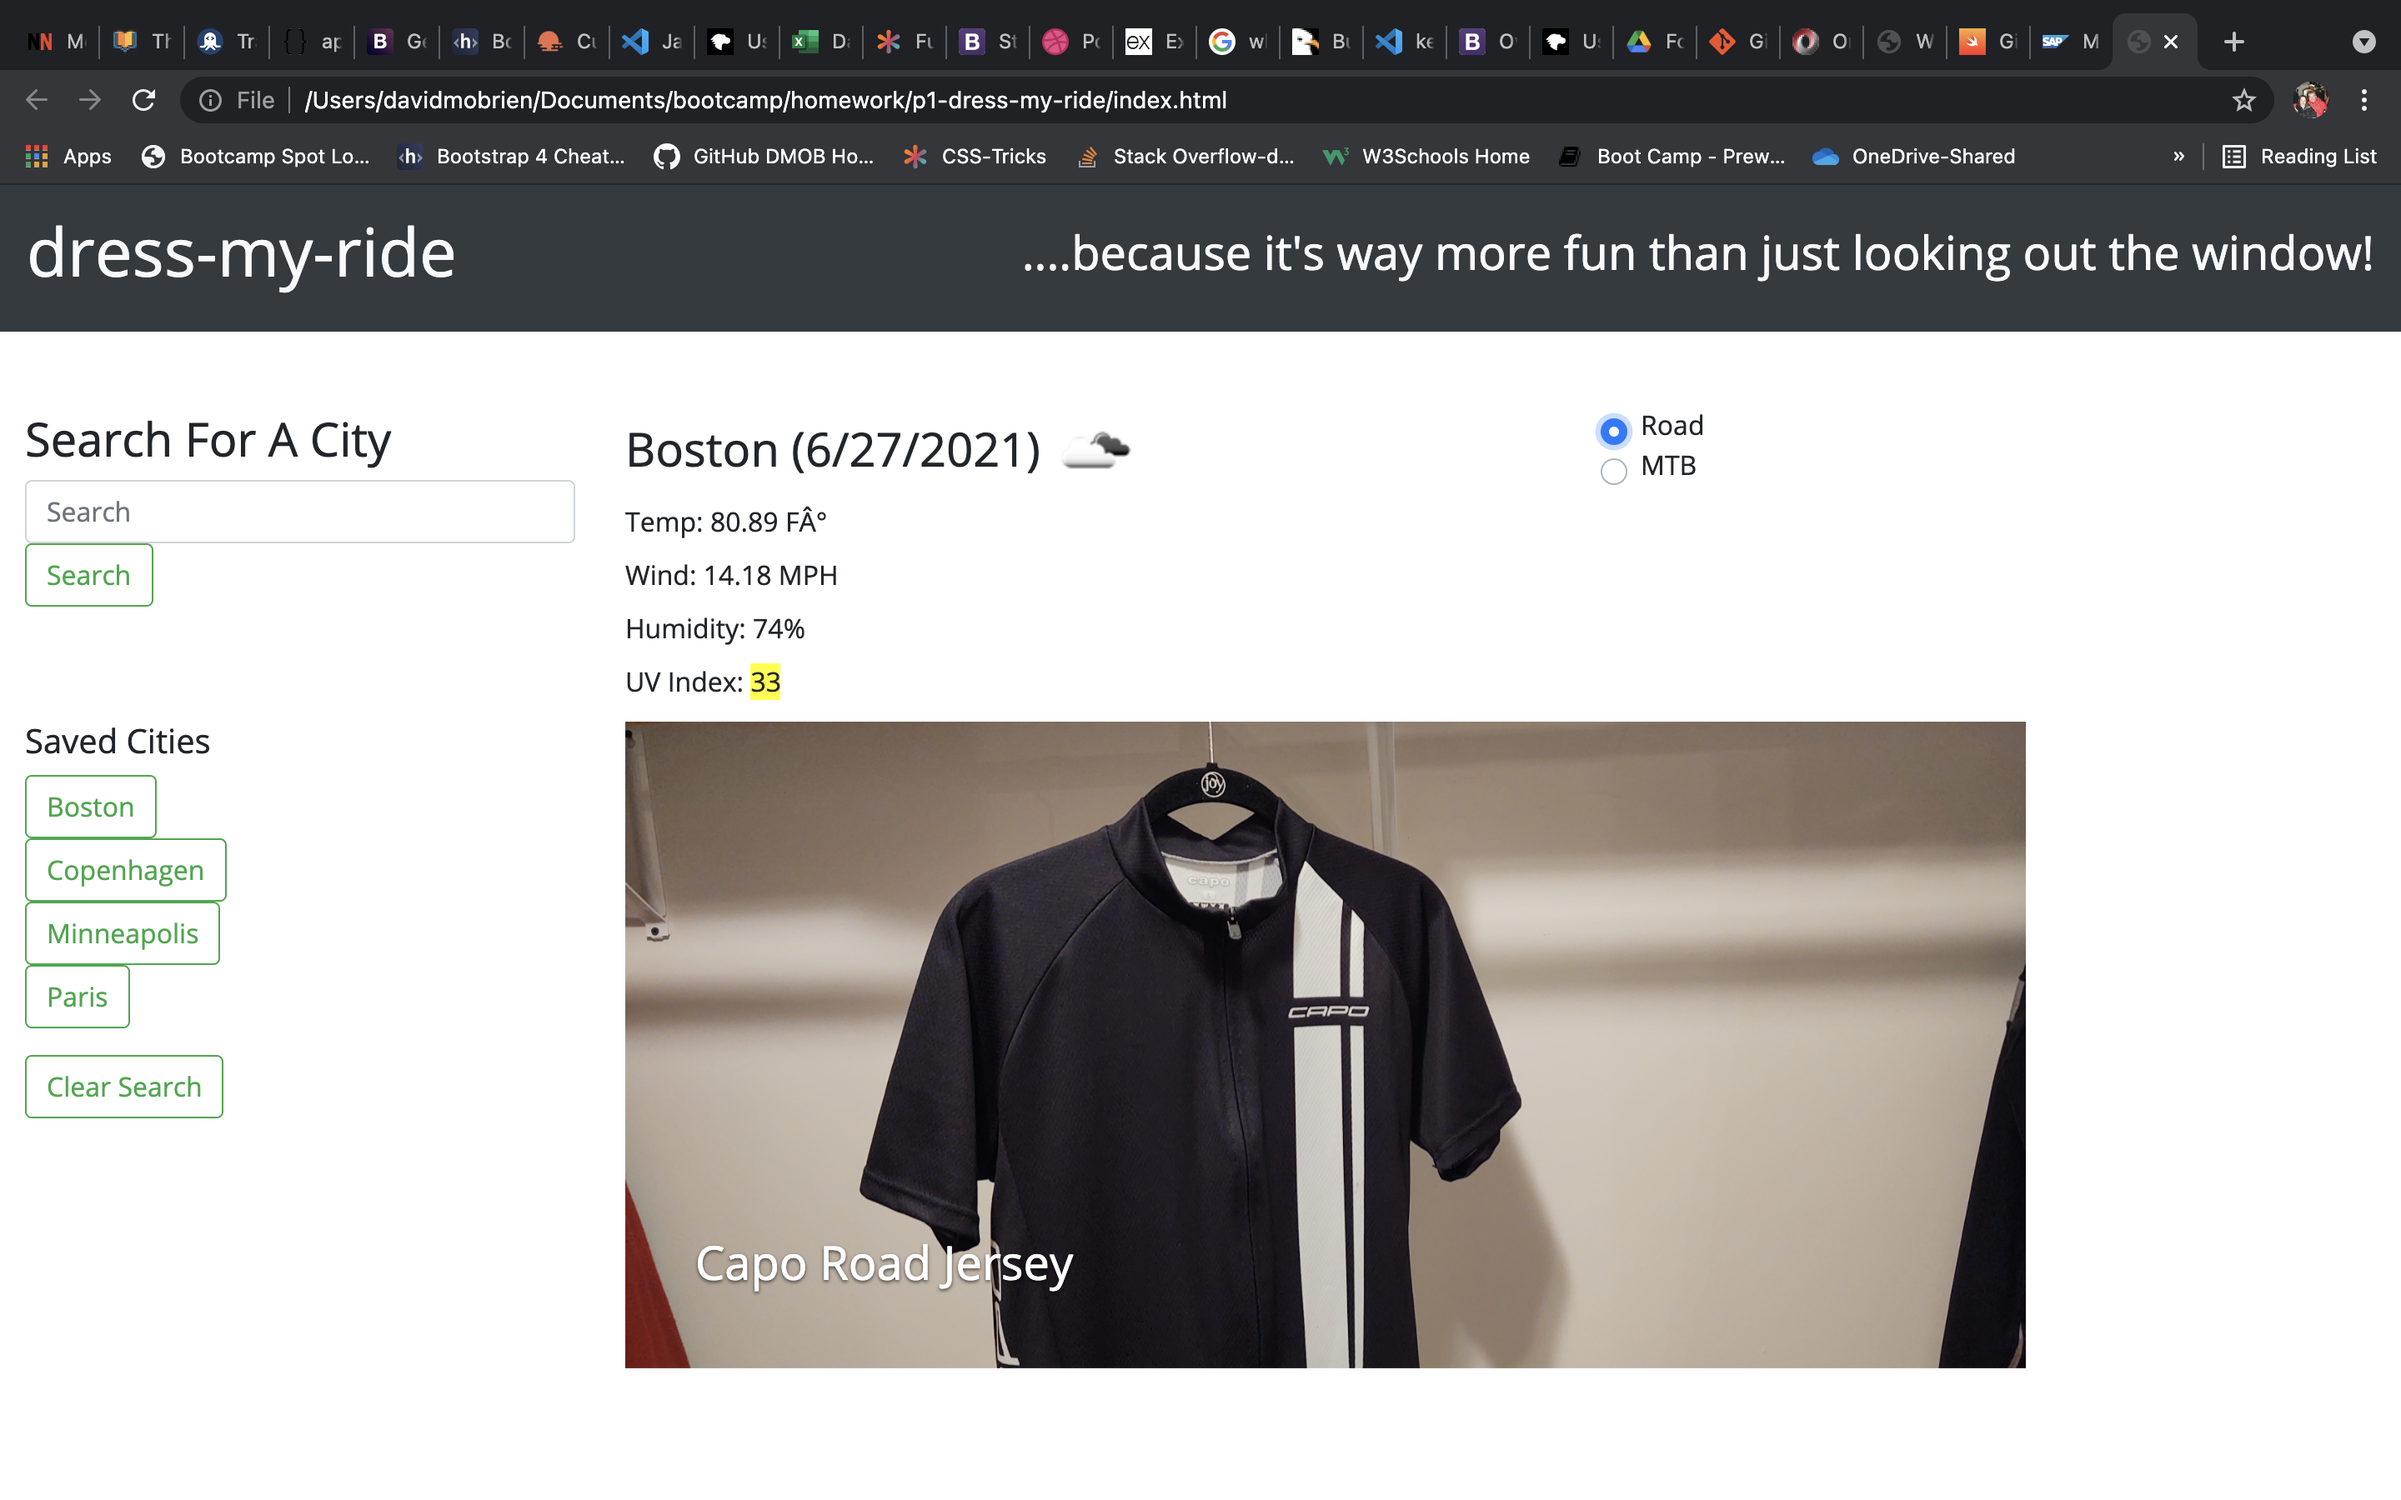
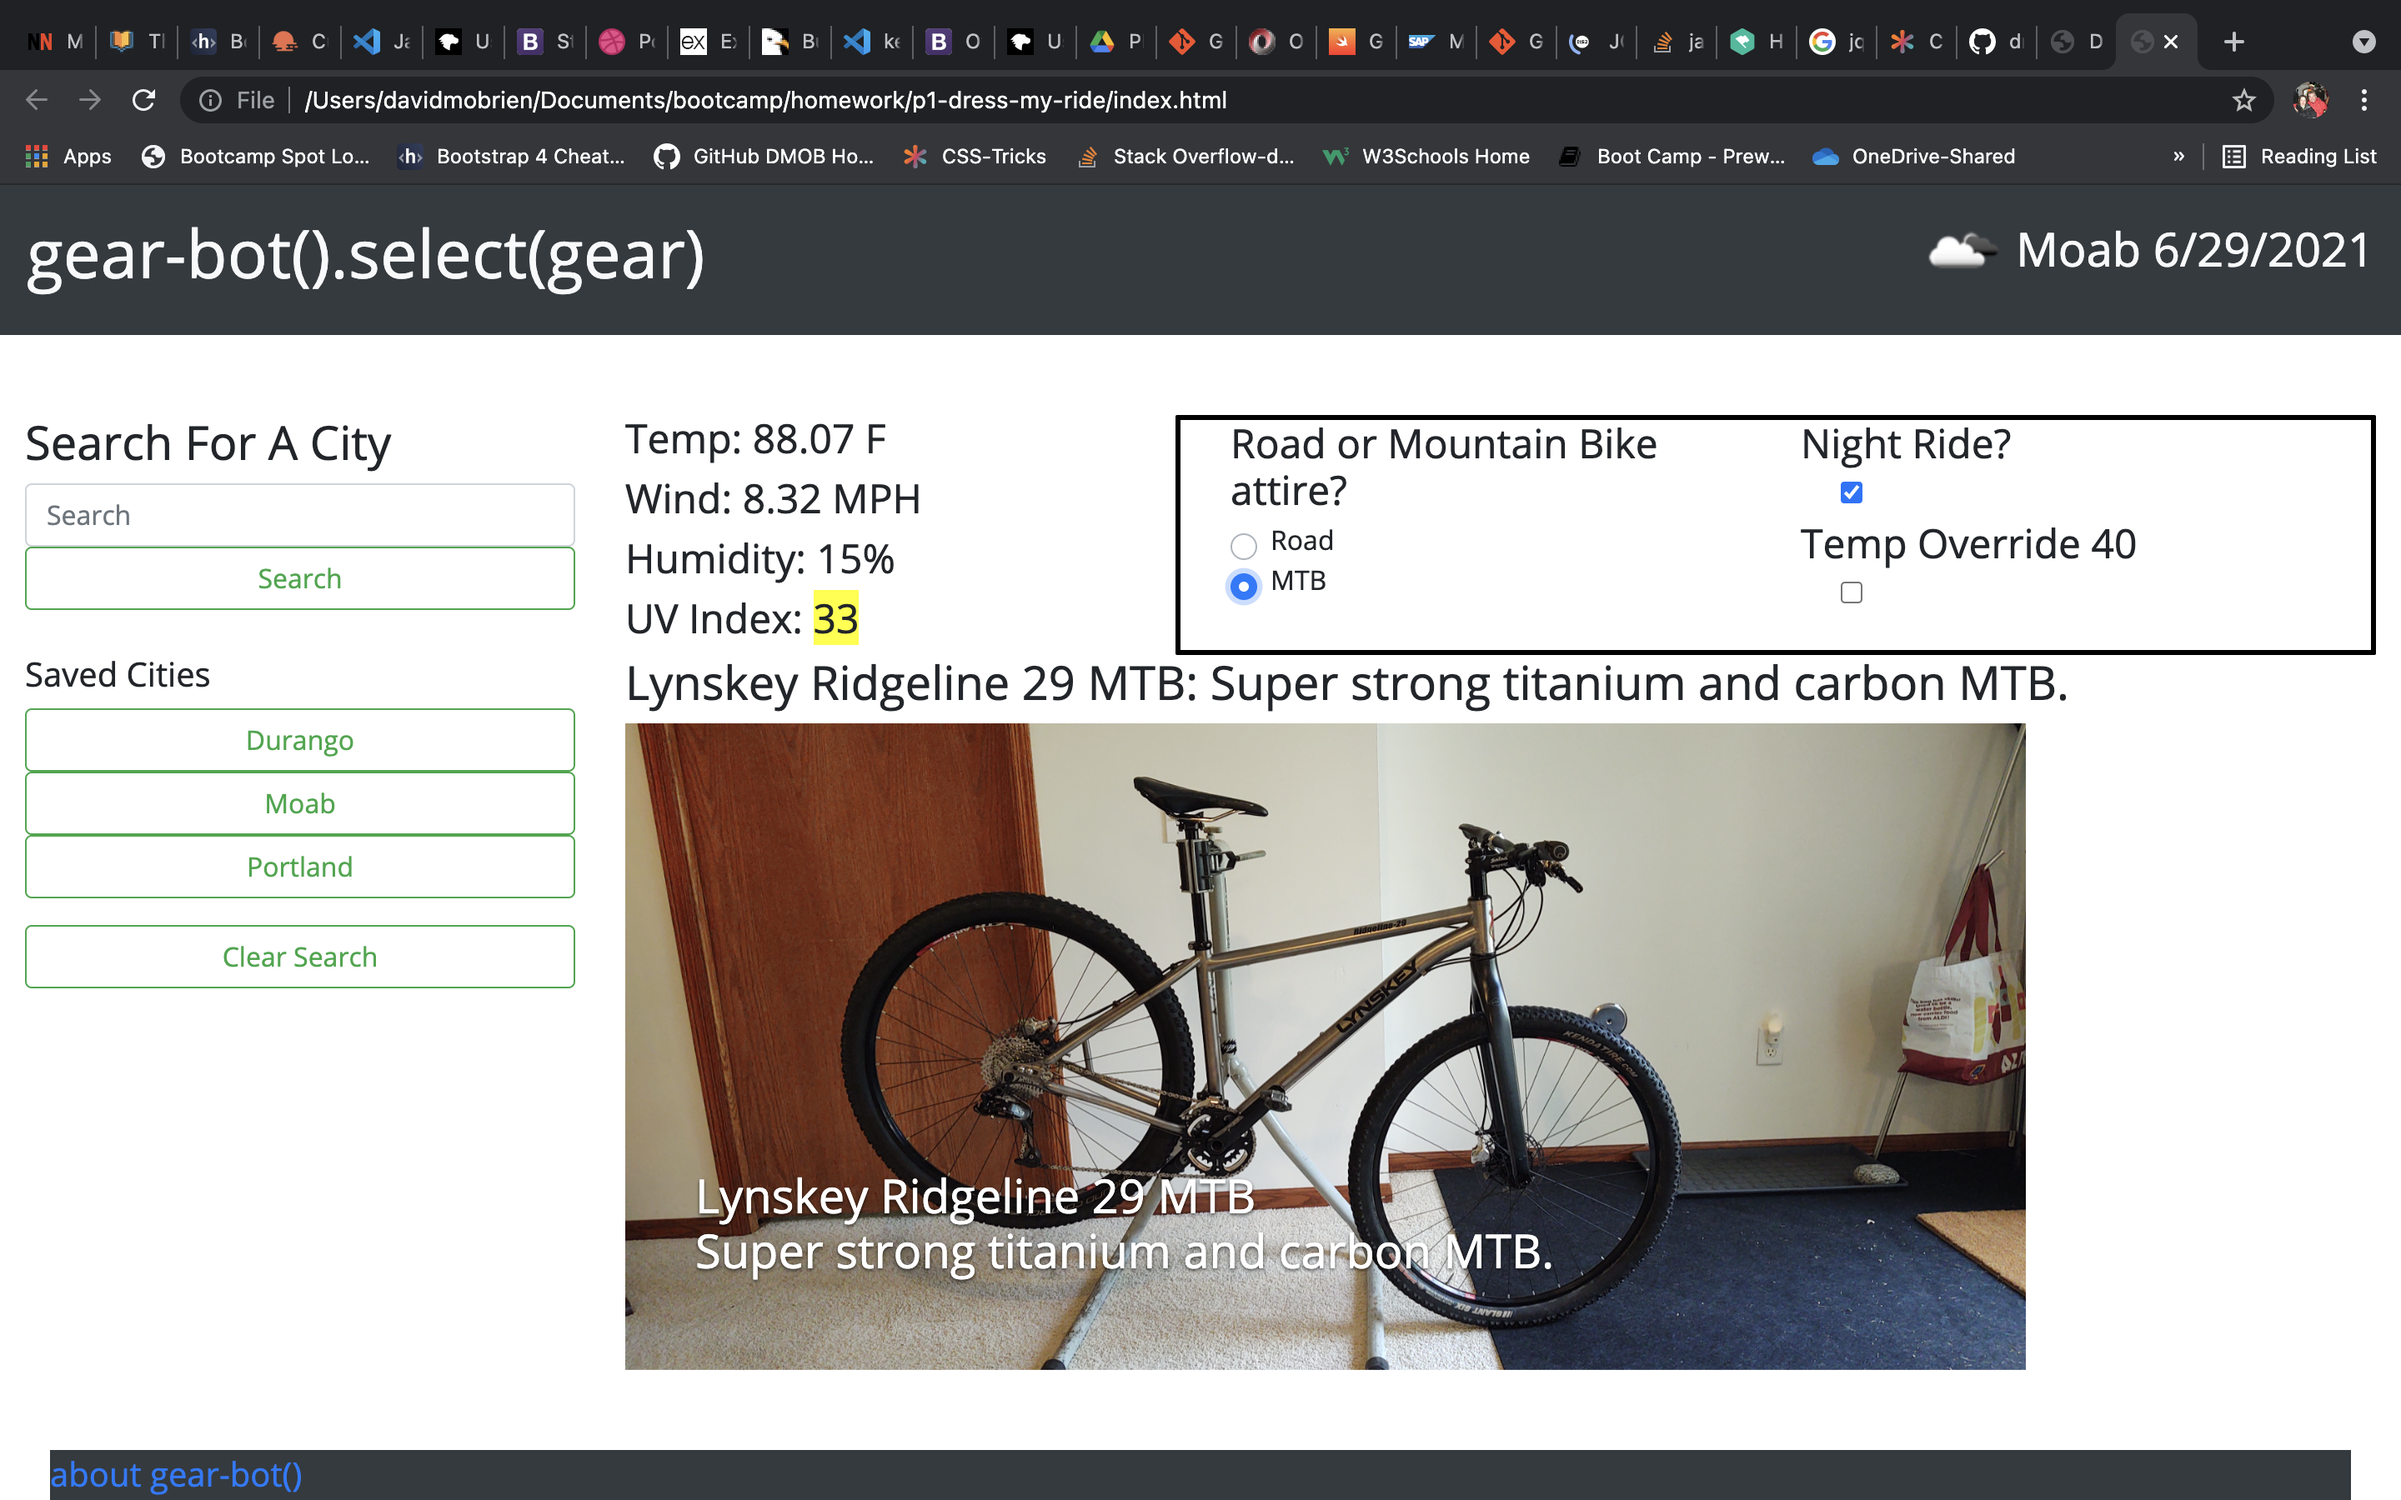
Updated README and screenshot to latest view.

diff --git a/README.md b/README.md
@@ -9,11 +9,11 @@
 5. [FAQs](#faqs)
 ### General Info
 ***
-### dress-my-ride, because apparently I can't just walk outside and look at the weather!
+### aka gear-bot(), because apparently I can't just walk outside and look at the weather!
 
 Web based application showing the user at a glance the proper attire to be 
 worn for that days' ride. Also makes recommendations for trip packing based
-on 5 day forecast at any destination.
+on 5 day forecast at any destination. Yes.
 
 ### Screenshot
 ***
@@ -49,7 +49,7 @@ on 5 day forecast at any destination.
   User is presented with heading describing usage of selected outfit.
 
   Phase 1d
-  User is presented with checkbox allowing choice to ride at night
+  User is presented with checkbox allowing choice to select night gear
   or not.
   If user checks box, template is loaded containing clothes for the 
   conditions and also headlamp and taillight system.
